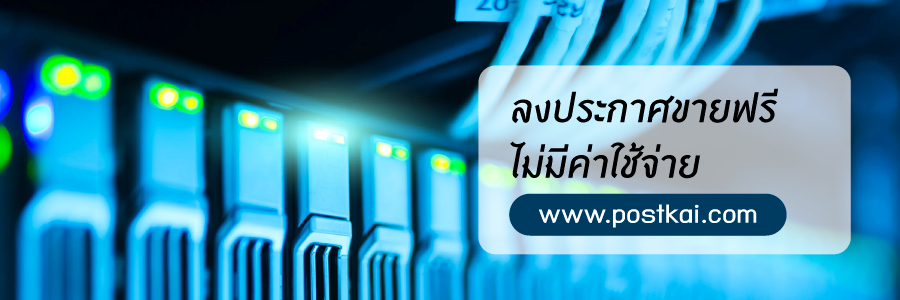
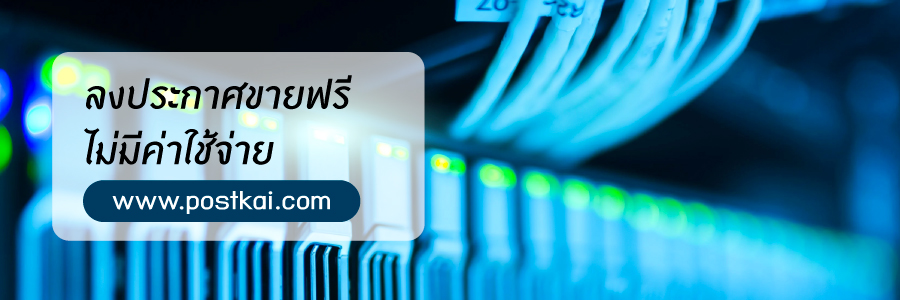
upload images

diff --git a/system/main-dashboard.php b/system/main-dashboard.php
@@ -16,7 +16,7 @@
           </div>
 
           <div class="item">
-            <img src="<?php echo $LinkWeb;?>images/system/p-1.jpg" alt="" style="width:100%;">
+            <img src="<?php echo $LinkWeb;?>images/system/p-2.jpg" alt="" style="width:100%;">
           </div>
 
           <div class="item">
